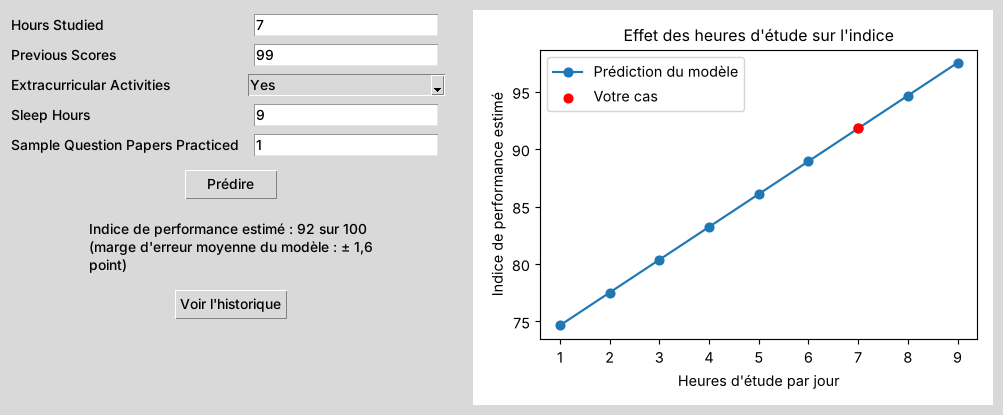
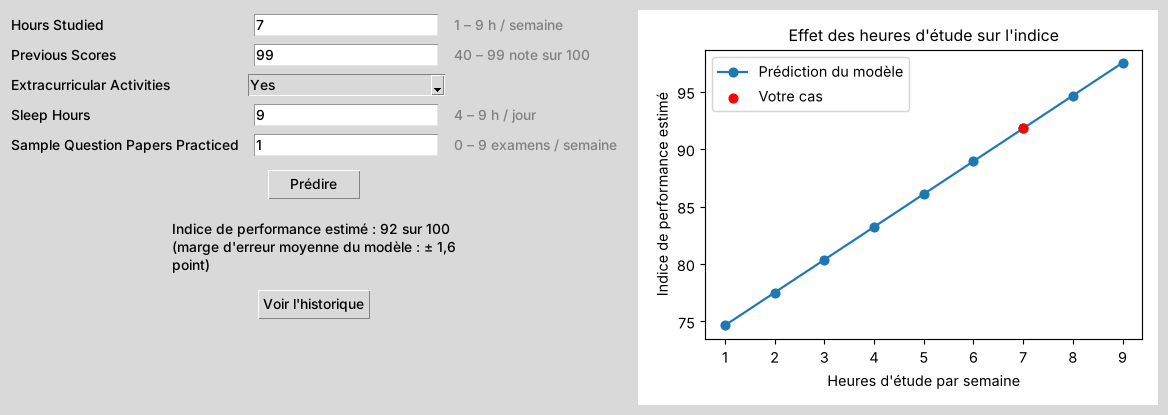
Interface : bornes et unités en gris à côté de chaque champ
- Variable.aide() (polymorphisme) : « 1 – 9 h / semaine », vide pour une catégorie
- unités : heures d'étude et examens par semaine, sommeil par jour, notes sur 100
- graphique de l'interface et figure d'exploration : « par semaine » au lieu de « par jour »
- captures du plan B refaites, nouveau test (30 au total), DECISIONS.md mis à jour

Claude-Session: https://claude.ai/code/session_01Sm6ReqHeBDwJQSGNqtbFqf

diff --git a/src/donnees.py b/src/donnees.py
@@ -27,6 +27,15 @@ BORNES = {
 }
 
 
+# Unités affichées en gris à côté des champs de l'interface
+UNITES = {
+    "Hours Studied": "h / semaine",
+    "Previous Scores": "note sur 100",
+    "Sleep Hours": "h / jour",
+    "Sample Question Papers Practiced": "examens / semaine",
+}
+
+
 class JeuDeDonnees:
     """Charge le CSV et prépare les données pour le modèle."""
 
@@ -114,6 +123,10 @@ class Variable(ABC):
         Échoue : lève DonneeInvalideError si la saisie est invalide.
         """
 
+    def aide(self) -> str:
+        """Court texte d'aide affiché à côté du champ (vide par défaut)."""
+        return ""
+
     def __repr__(self) -> str:
         """Représentation lisible, par exemple VariableNumerique('Sleep Hours')."""
         return f"{type(self).__name__}({self._nom!r})"
@@ -122,11 +135,13 @@ class Variable(ABC):
 class VariableNumerique(Variable):
     """Variable numérique bornée par un intervalle [minimum, maximum]."""
 
-    def __init__(self, nom: str, minimum: float, maximum: float) -> None:
-        """Reçoit le nom de la colonne et l'intervalle permis [minimum, maximum]."""
+    def __init__(self, nom: str, minimum: float, maximum: float, unite: str = "") -> None:
+        """Reçoit le nom de la colonne, l'intervalle permis [minimum, maximum]
+        et, au besoin, l'unité affichée dans l'aide (ex. « h / semaine »)."""
         super().__init__(nom)
         self._minimum = minimum
         self._maximum = maximum
+        self._unite = unite
 
     @property
     def minimum(self) -> float:
@@ -137,6 +152,11 @@ class VariableNumerique(Variable):
     def maximum(self) -> float:
         """Plus grande valeur acceptée (lecture seule)."""
         return self._maximum
+
+    def aide(self) -> str:
+        """Bornes et unité, par exemple « 1 – 9 h / semaine »."""
+        texte = f"{self._minimum:g} – {self._maximum:g}"
+        return f"{texte} {self._unite}" if self._unite else texte
 
     def valider(self, saisie: str) -> float:
         """Convertit la saisie en nombre et vérifie qu'elle est dans [minimum, maximum].
@@ -237,7 +257,7 @@ def variables_depuis_metadonnees(metadonnees: dict) -> list[Variable]:
     for nom in metadonnees["colonnes"]:
         if nom in metadonnees["numeriques"]:
             minimum, maximum = metadonnees["numeriques"][nom]
-            variables.append(VariableNumerique(nom, minimum, maximum))
+            variables.append(VariableNumerique(nom, minimum, maximum, UNITES.get(nom, "")))
         elif nom in metadonnees["categorielles"]:
             variables.append(VariableCategorielle(nom, metadonnees["categorielles"][nom]))
         else:

diff --git a/src/interface.py b/src/interface.py
@@ -60,17 +60,20 @@ class Application:
                 champ = ttk.Entry(self._cadre_formulaire)
             champ.grid(row=numero, column=1, padx=8, pady=4)
             self._champs[variable.nom] = champ
+            if variable.aide():
+                ttk.Label(self._cadre_formulaire, text=variable.aide(),
+                          foreground="gray").grid(row=numero, column=2, sticky="w")
 
         ttk.Label(self._cadre_formulaire, textvariable=self._resultat,
                   wraplength=300).grid(
-            row=len(self._variables) + 1, column=0, columnspan=2, pady=10)
+            row=len(self._variables) + 1, column=0, columnspan=3, pady=10)
 
         ttk.Button(self._cadre_formulaire, text="Prédire",
                    command=self.predire).grid(
-            row=len(self._variables), column=0, columnspan=2, pady=10)
+            row=len(self._variables), column=0, columnspan=3, pady=10)
         ttk.Button(self._cadre_formulaire, text="Voir l'historique",
                    command=self.afficher_historique).grid(
-            row=len(self._variables) + 2, column=0, columnspan=2, pady=5)
+            row=len(self._variables) + 2, column=0, columnspan=3, pady=5)
     
 
     def predire(self) -> None:
@@ -123,7 +126,7 @@ class Application:
         self._axes.scatter([ligne[VARIABLE_GRAPHIQUE]], [indice],
                            color="red", zorder=3, label="Votre cas")
         self._axes.set_title("Effet des heures d'étude sur l'indice", fontsize=11)
-        self._axes.set_xlabel("Heures d'étude par jour")
+        self._axes.set_xlabel("Heures d'étude par semaine")
         self._axes.set_ylabel("Indice de performance estimé")
         self._axes.legend()
         self._figure.tight_layout()

diff --git a/tests/test_donnees.py b/tests/test_donnees.py
@@ -62,6 +62,13 @@ def test_numerique_virgule_decimale() -> None:
     assert v.valider(" 7,5 ") == pytest.approx(7.5)
 
 
+def test_aide_affiche_bornes_et_unite() -> None:
+    """Texte gris de l'interface : bornes sans « .0 » inutile, puis l'unité (cas usuel)."""
+    assert VariableNumerique("Hours Studied", 1.0, 9.0, "h / semaine").aide() == "1 – 9 h / semaine"
+    assert VariableNumerique("Sleep Hours", 4, 9).aide() == "4 – 9"
+    assert VariableCategorielle("Extracurricular Activities", ["No", "Yes"]).aide() == ""
+
+
 def test_numerique_borne_exacte() -> None:
     """Borne maximale acceptée (cas limite)."""
     v = VariableNumerique("Sleep Hours", 4, 9)

diff --git a/src/graphiques.py b/src/graphiques.py
@@ -32,7 +32,7 @@ def graphique_exploration(df: pd.DataFrame, chemin: str) -> None:
     droite.set_title("Indice selon les notes antérieures")
     droite.set_xlabel("Notes antérieures (Previous Scores)")
     droite.set_ylabel("Indice de performance")
-    figure.colorbar(nuage, ax=droite, label="Heures d'étude par jour")
+    figure.colorbar(nuage, ax=droite, label="Heures d'étude par semaine")
 
     figure.tight_layout()
     _enregistrer(figure, chemin)

diff --git a/ARCHITECTURE.md b/ARCHITECTURE.md
@@ -237,7 +237,7 @@ Les fichiers de `modeles/` et `historique.csv` sont **générés** : ils ne sont
 flowchart LR
     push["git push"] --> ci["GitHub Actions<br/>.github/workflows/tests.yml"]
     ci --> install["pip install -r requirements.txt"]
-    install --> pytest["pytest -v<br/>29 tests"]
+    install --> pytest["pytest -v<br/>30 tests"]
     pytest --> verdict{"Tous passent ?"}
     verdict -- oui --> vert["✅ marque verte"]
     verdict -- non --> rouge["❌ marque rouge"]
@@ -259,7 +259,7 @@ Couverture de la logique (`src/` hors `interface.py` et `main.py`) : **96 %**.
 | Ch. 5 | CSV, JSON, chemins `os`, `with`, existence vérifiée | `donnees.py` (chemins, historique), `modele.py` (`sauvegarder`, `charger`) |
 | Ch. 6 | Fonctions courtes, docstrings, annotations, `return` | Tous les modules de `src/` |
 | Ch. 7 | ≥ 4 modules + `main.py` ; outil du chapitre | 7 modules ; décorateur `chronometre`, `lambda` dans `decrire_variables` |
-| Ch. 8 | Exceptions précises, exception personnalisée, ≥ 8 tests, couverture, CI | `exceptions.py`, 29 tests, `.coveragerc`, `tests.yml` |
+| Ch. 8 | Exceptions précises, exception personnalisée, ≥ 8 tests, couverture, CI | `exceptions.py`, 30 tests, `.coveragerc`, `tests.yml` |
 | Ch. 9–11 | ≥ 3 classes, héritage, polymorphisme, composition, méthode spéciale | Voir la section 3 |
 | Ch. 12 | Calcul vectorisé NumPy | `mae_numpy` (sans boucle), comparée à scikit-learn dans un test |
 | Ch. 13 | 2 graphiques, documentation citée, journal d'IA | `graphiques.py` + graphique de l'interface, README, `JOURNAL_IA.md` |

diff --git a/DECISIONS.md b/DECISIONS.md
@@ -17,3 +17,4 @@
 | Historique | CSV, JSON | CSV : une ligne par prédiction, lisible dans un tableur, ajouté avec `csv.DictWriter` en mode `"a"`. | |
 | Outil du chapitre 7 | Décorateur, générateur, lambda | Décorateur `chronometre` sur `Modele.entrainer` : il mesure la durée sans modifier la méthode, et la durée est enregistrée dans les métadonnées. Une lambda sert aussi de clé de tri pour les valeurs des catégories. Générateur écarté : le CSV (10 000 lignes) tient facilement en mémoire. | |
 | Avertissement | Afficher, ne pas afficher | Domaine éducation, qui n'est pas dans la liste des domaines sensibles de l'énoncé. Le README précise toutefois que les données semblent synthétiques et que le modèle ne s'applique pas à de vrais étudiants. | |
+| Unités affichées dans l'interface | Aucune unité, par jour, par semaine | Bornes en gris à côté de chaque champ, avec l'unité : heures d'étude **par semaine** (1 – 9), sommeil **par jour** (4 – 9), examens pratiqués **par semaine** (0 – 9), notes antérieures sur 100. Choix de l'équipe pour que l'utilisateur sache quoi saisir ; le graphique et la figure d'exploration disent aussi « par semaine ». | |

diff --git a/README.md b/README.md
@@ -35,7 +35,7 @@ L'interface utilise Tkinter, inclus avec Python. Sous Linux, il peut falloir l'i
 pytest -v
 coverage run -m pytest && coverage report
 ```
-Couverture (logique dans `src/`, hors `interface.py` et `main.py`, voir `.coveragerc`) : **96 %**, avec 29 tests.
+Couverture (logique dans `src/`, hors `interface.py` et `main.py`, voir `.coveragerc`) : **96 %**, avec 30 tests.
 
 | Module | Couverture |
 |---|---|
